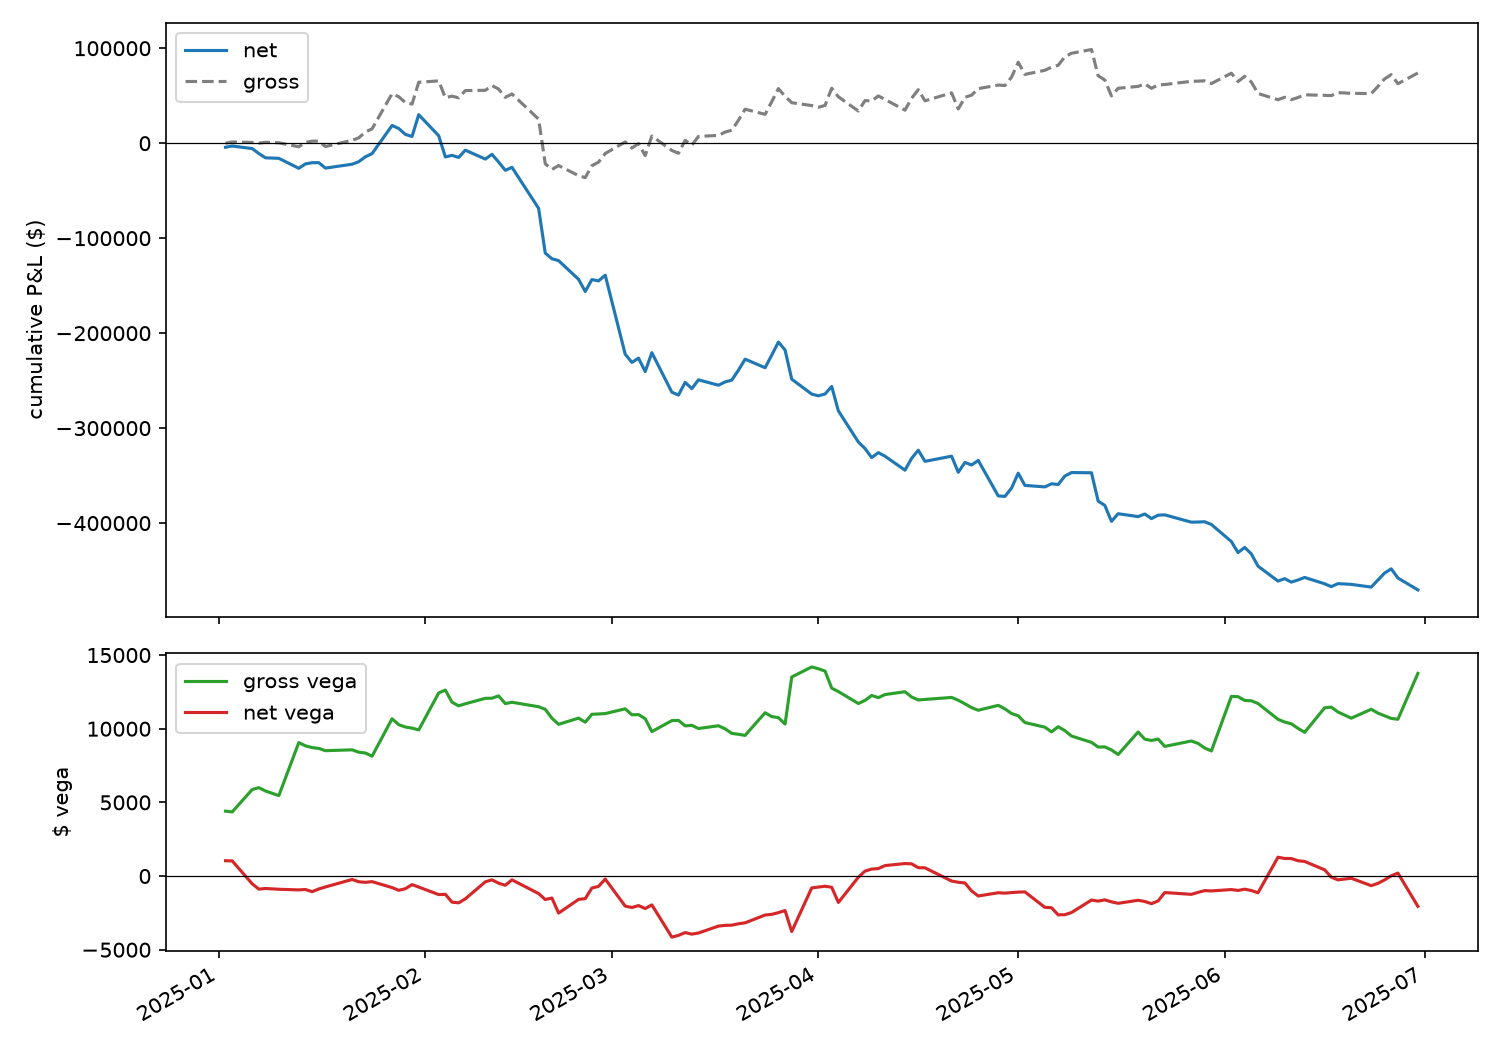
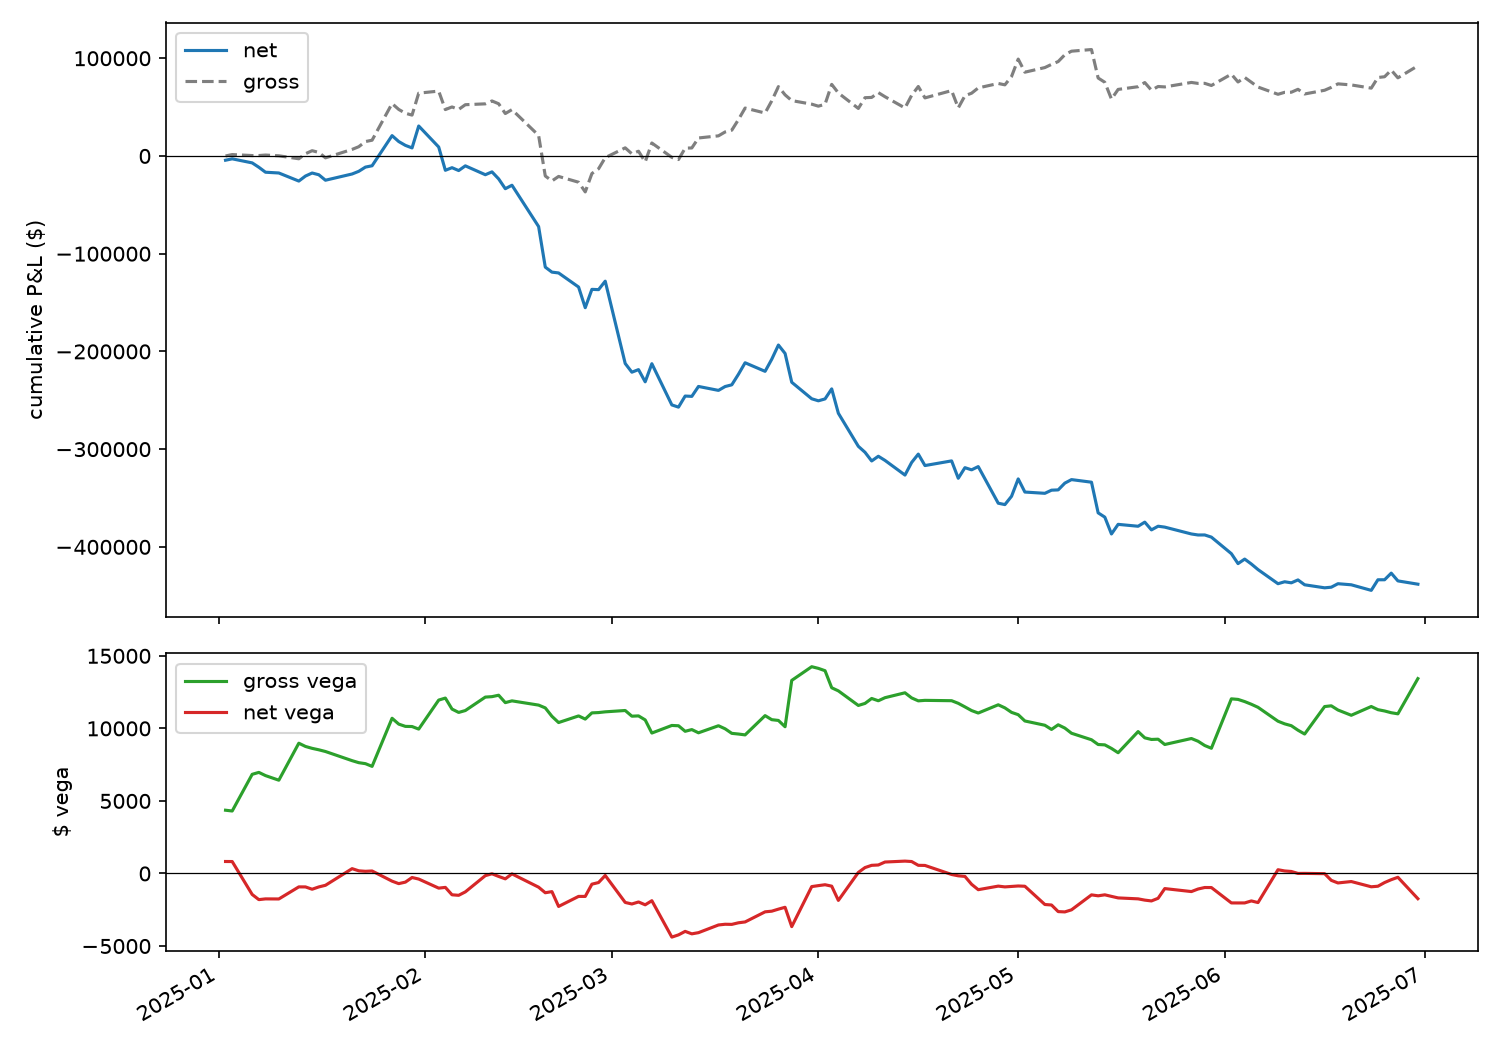
voltium: six-month books rerun on the deterministic risk model
Claude-Session: https://claude.ai/code/session_01EyGhNDwJUvcaUqL1XiScdg

diff --git a/voltium/README.md b/voltium/README.md
@@ -193,12 +193,16 @@ writes `demos/figures/*_<tag>.png`; the last logs are `demos/*_book.log`.
 
 | | VRP book | IV z-score book |
 | --- | --- | --- |
-| mean positions / gross vega | 37 / $10.7k | 51 / $9.8k |
-| gross P&L / costs / net | +$64k / $601k / -$537k | +$39k / $396k / -$357k |
-| annual turnover / gross vega | 38x | 31x |
-| decile 1 vs 10 forward 60-session gross P&L per $ vega | 4.1 vs 3.8 (t 4.7 / 4.7) | 4.9 vs 4.3 (t 6.5 / 5.0) |
-| net P&L loading on market vol factor (t) | +0.05 (0.4) | -0.15 (-1.7) |
-| intercept, net P&L per $ gross vega per day (t) | -0.35 (-2.7) | -0.27 (-2.6) |
+| mean positions / gross vega | 36 / $10.4k | 51 / $9.8k |
+| gross P&L / costs / net | +$92k / $530k / -$438k | +$38k / $388k / -$349k |
+| annual turnover / gross vega | 36x | 30x |
+| decile 1 vs 10 forward 60-session gross P&L per $ vega | 4.4 vs 4.0 (t 5.1 / 4.9) | 4.9 vs 4.5 (t 6.4 / 5.2) |
+| net P&L loading on market vol factor (t) | +0.01 (0.1) | -0.13 (-1.5) |
+| intercept, net P&L per $ gross vega per day (t) | -0.31 (-2.4) | -0.29 (-3.0) |
+
+Runs are reproducible bit for bit: every selection tie (two monthlies
+equidistant from the target, two strikes equidistant in delta) is broken by
+an explicit key, never by row order.
 
 Read these as a demonstration of the machinery, not of an edge. Both gross
 decile spreads have the expected sign and are small; both books are
